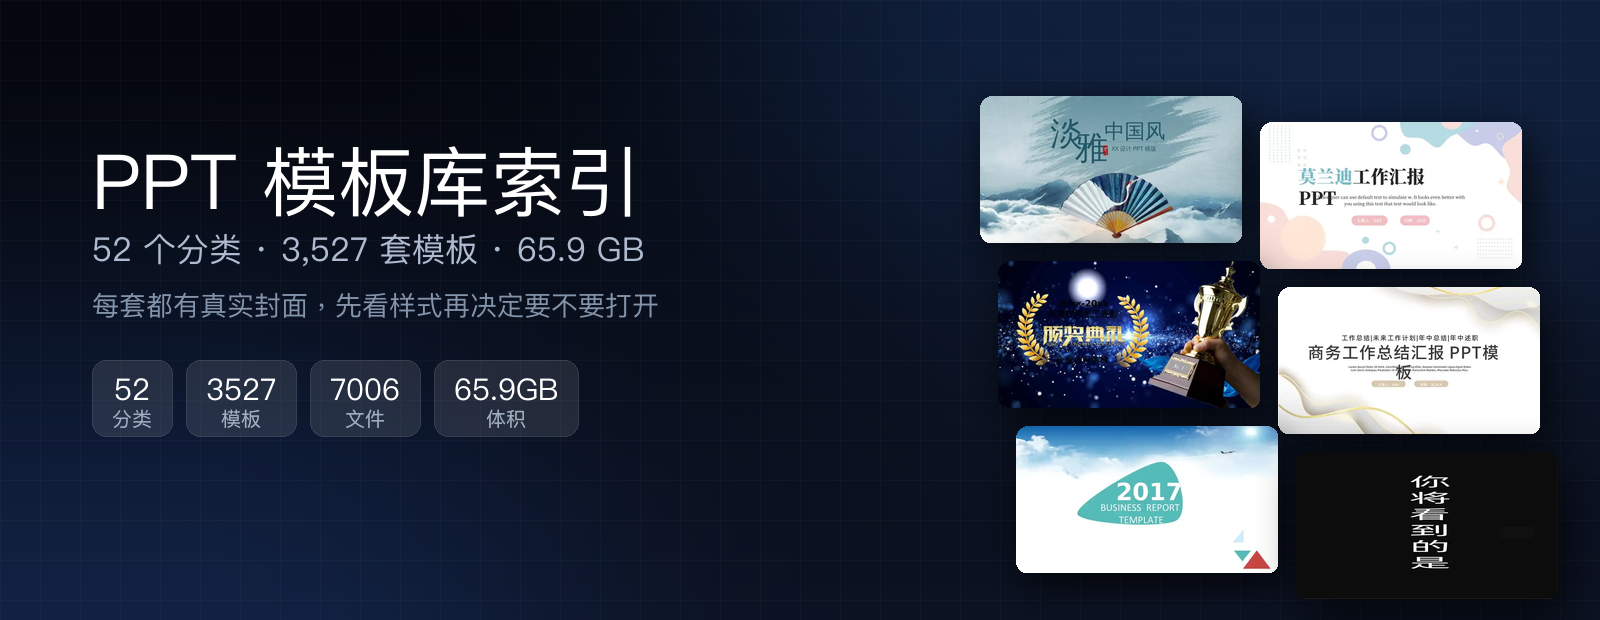
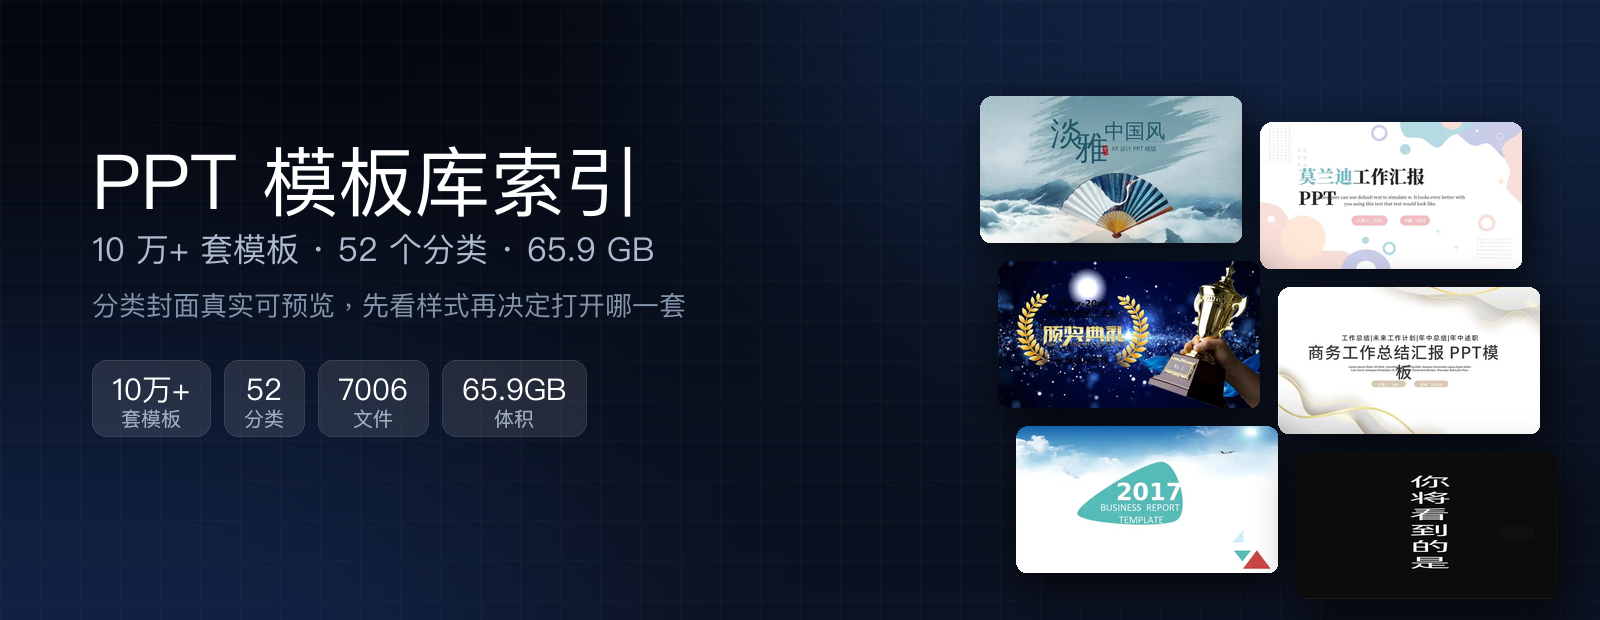
docs: 主标语改为 10 万+ 套，同步更新 hero 与统计口径说明

diff --git a/README.md b/README.md
@@ -8,7 +8,7 @@
 ![文件](https://img.shields.io/badge/文件-7006-F59E0B?style=flat-square)
 ![License](https://img.shields.io/badge/License-MIT-black?style=flat-square)
 
-> 把一套 **7000+ 文件 / 65.9 GB** 的中文 PPT 模板库，整理成可检索、可直达、带封面预览的目录索引。
+> 把一套 **10 万+ 套 / 65.9 GB** 的中文 PPT 模板库，整理成可检索、可直达、带封面预览的目录索引。
 > **只索引、只预览：不存储原文件、不提供下载。**
 
 **快速导航**　[🖼 可视化浏览页](docs/gallery.html) · [分类墙](#分类墙) · [精选六套](#精选模板) · [目录结构](#目录结构示例) · [怎么用](#怎么用) · [完整目录](docs/CATALOG.md) · [结构化数据](data/catalog.json)
@@ -29,6 +29,8 @@
 | 总体积 | **65.9 GB** |
 | 封面/预览图 | 3479 张 |
 | 原始分享 | [pan.quark.cn/s/180767425d31](https://pan.quark.cn/s/180767425d31)（分享者：夸父\*010，永久有效） |
+
+> 源站标称 10 万套模板；本仓库只索引当前分享里实际可见的 52 个分类、3,527 套。
 
 覆盖场景：工作总结、年终总结、毕业答辩、教学课件、竞聘简历、商务汇报、产品发布、项目策划、年会颁奖、婚庆、快闪、国潮/中国风、莫兰迪、扁平、科技、文艺……
 
